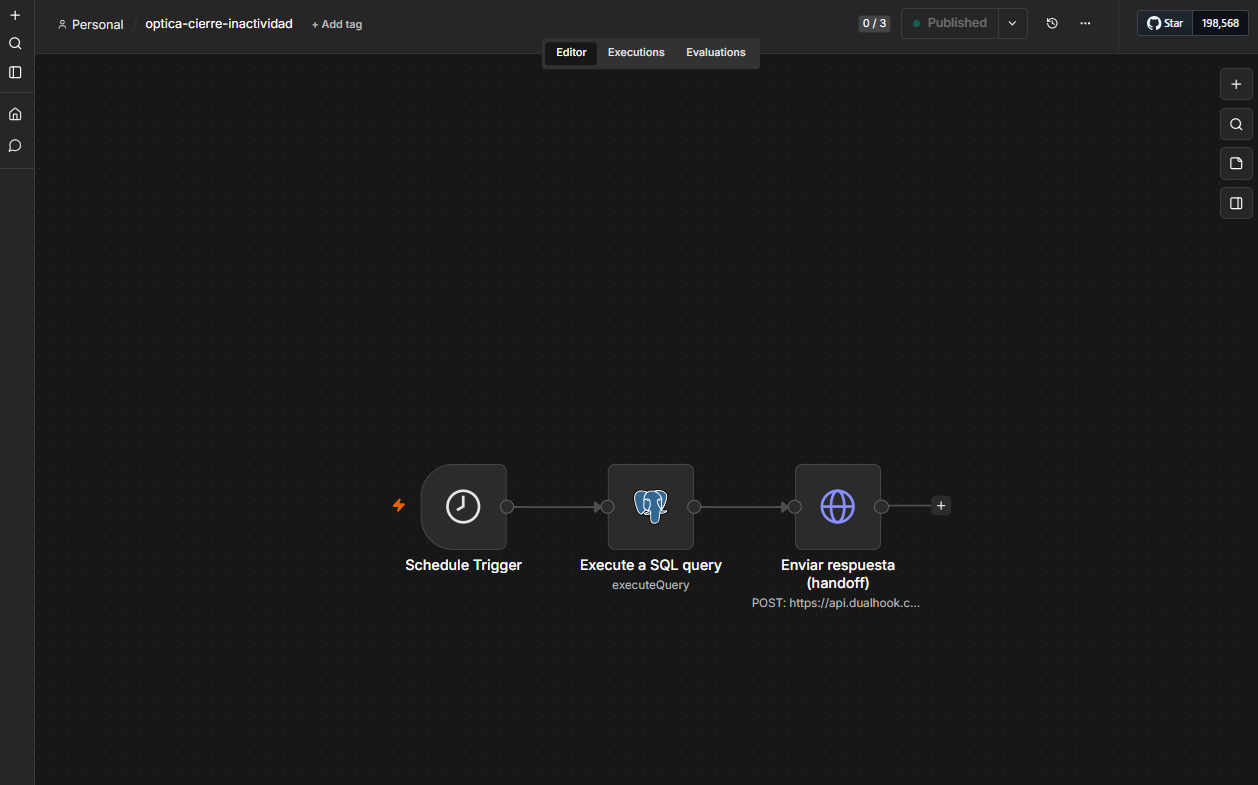
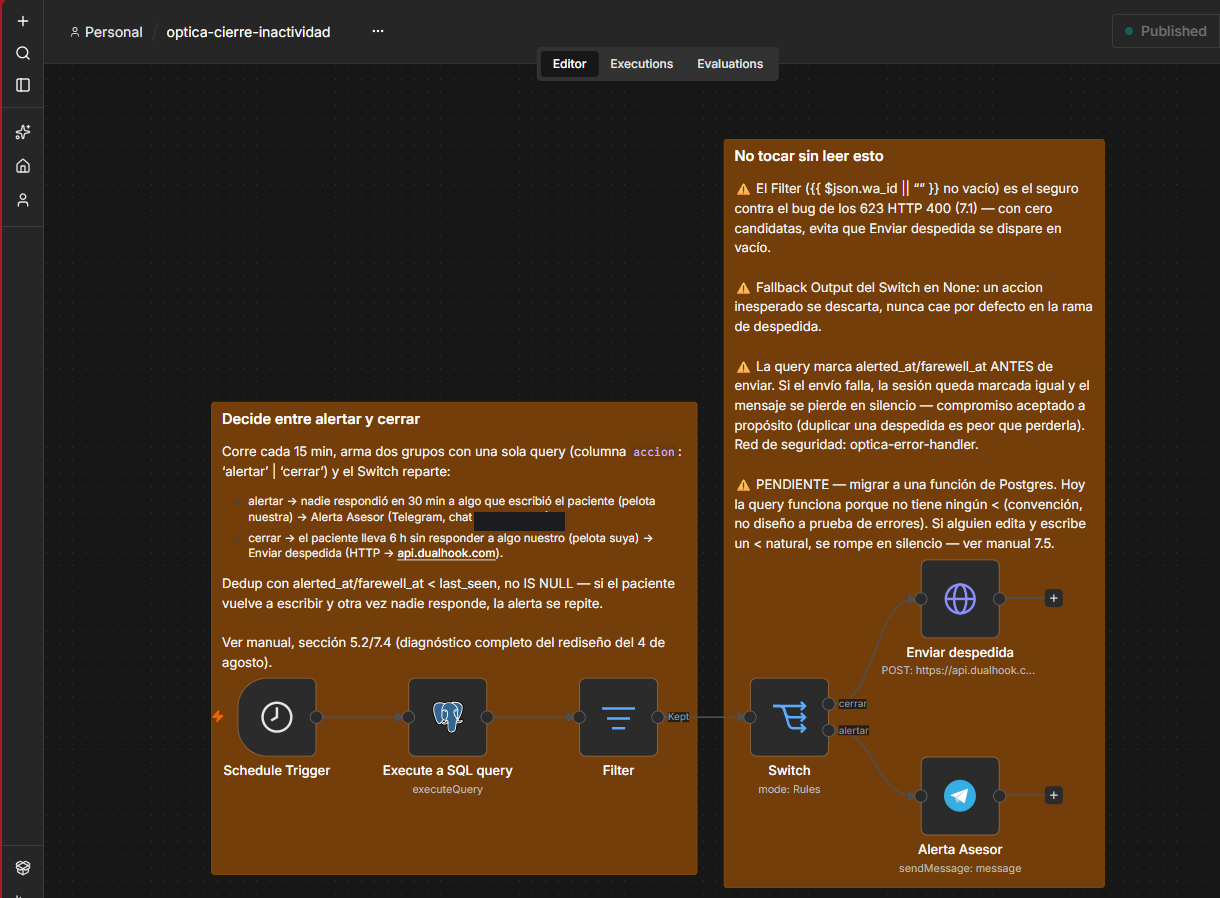
README: 4 workflows, dominio propio y Fase 5 de la bitácora
- Arquitectura: sslip.io → dominio propio con TLS automático (cutover sin
  downtime); el diagrama refleja los 3 usos reales de Telegram.
- Workflows: 3 → 4, con optica-error-handler documentado.
- optica-cierre-inactividad: descrito el rediseño de dos caminos
  (alertar a los 30 min / cerrar a las 6 h) en vez del umbral único de 1 h.
- Modelo de datos: columnas nuevas de optica_sessions (last_outbound_at,
  alerted_at, wa_user_id).
- Festivos: la afirmación sobre la Ley Emiliani ahora dice qué se verificó
  y cómo (Asunción 2026 → lunes 17, no sábado 15).
- Nueva Fase 5 de la bitácora: BSUID y el UPDATE que afectaba 0 filas,
  la trampa del par <…> en los campos SQL de n8n, el = duplicado en
  expresiones, el Error Workflow y por qué no se dispara en pruebas
  manuales, y el desfase horario del AI Agent (abierto).
- Lecciones 8-10 y roadmap actualizado.
- Capturas: las 4 al día, recortadas para no exponer el hostname de n8n
  ni los IDs de workflow, con el chat de Telegram redactado.

diff --git a/README.md b/README.md
@@ -16,21 +16,22 @@ Bot de WhatsApp en **producción** para una óptica real en Colombia. Atiende pa
 Paciente (WhatsApp) ⇄ Meta Cloud API
                           │  webhooks (directo, Webhook Override)
                           ▼
-      Caddy (HTTPS, sslip.io) ─→ n8n (workflow "optica-faq-bot")
+      Caddy (HTTPS, dominio propio) ─→ n8n (4 workflows)
                                       │
               ┌───────────────────────┼──────────────────────────┐
               ▼                       ▼                          ▼
       Postgres (pgvector)      Claude Haiku 4.5           Telegram Bot API
-      · memoria de chat        (Anthropic API)            (alertas al equipo)
-      · sesiones/estado        cerebro conversacional
-      · lista de personal
+      · memoria de chat        (Anthropic API)            · handoff a humano
+      · sesiones/estado        cerebro conversacional     · paciente sin atender
+      · lista de personal                                 · fallos de workflow
+      · festivos oficiales
                           envío de respuestas
                                       │
                                       ▼
                      Dualhook (BSP · api.dualhook.com) ─→ Meta ─→ Paciente
 ```
 
-- **Infraestructura:** AWS EC2 t3.micro · Docker Compose (Caddy + n8n + Postgres/pgvector) · Elastic IP · dominio sslip.io · acceso por SSM Session Manager (sin SSH).
+- **Infraestructura:** AWS EC2 t3.micro · Docker Compose (Caddy + n8n + Postgres/pgvector) · Elastic IP · **dominio propio** con TLS automático (migrado desde sslip.io sin downtime, ver bitácora) · acceso por SSM Session Manager (sin SSH).
 - **Coexistencia:** [Dualhook](https://dualhook.com) (Meta Tech Partner) habilita el Embedded Signup y el **Webhook Override**: los mensajes entrantes van **directo de Meta a n8n** (Dualhook no almacena mensajes); el envío sale por la API de Dualhook con una key propia.
 - **Recepción gratuita:** el bot solo responde dentro de la ventana de servicio de 24 h de Meta (conversaciones iniciadas por el paciente) → costo de mensajería ≈ $0 a este volumen.
 
@@ -47,8 +48,9 @@ Paciente (WhatsApp) ⇄ Meta Cloud API
 | **Handoff a humano** | Escala por: multimedia (fórmulas, comprobantes), petición explícita de asesor, o consultas de estado que solo el equipo conoce (marcador `##HANDOFF##` emitido por el LLM y detectado en n8n). Alerta por **Telegram** y pausa el bot 24 h **por paciente**. |
 | **Anti-cruce (echo-pausa)** | Si un humano responde desde la app, el webhook echo pausa al bot 2 h para ese paciente. Bot y asesor nunca se pisan. |
 | **Gate de horario** | El bot solo conversa **fuera del horario de atención**; en horario, el equipo atiende desde la app (alertas de Telegram activas siempre). |
-| **Festivos automáticos** | Los 18 festivos colombianos se sincronizan solos desde la API pública **Nager.Date** (incluye traslados por Ley Emiliani). Un festivo cuenta como día cerrado: el bot **sí atiende** (el equipo no está) y **nunca agenda** citas en esa fecha. Cero mantenimiento manual. |
-| **Cierre por inactividad** | Workflow programado: a la hora sin respuesta envía despedida elegante y cierra la sesión (respetando la ventana de 24 h de Meta). |
+| **Festivos automáticos** | Los 18 festivos colombianos se sincronizan solos desde la API pública **Nager.Date**, con los traslados de la Ley Emiliani ya aplicados (verificado en producción: la Asunción de 2026 llegó como lunes 17 de agosto, no como sábado 15). Un festivo cuenta como día cerrado: el bot **sí atiende** (el equipo no está) y **nunca agenda** citas en esa fecha. Cero mantenimiento manual. |
+| **De quién es el turno** | Cada 15 min, un workflow mira `last_seen` vs. `last_outbound_at` y decide: si la pelota es **nuestra** y lleva 30 min parada, alerta al equipo por Telegram; si la pelota es **del paciente** y lleva 6 h, envía la despedida y cierra la sesión. Una sola consulta decide ambos caminos. |
+| **Alertas de fallo** | Un *Error Workflow* central recoge cualquier excepción de los tres workflows productivos y la manda por Telegram con el nodo que falló, el mensaje y el enlace directo a la ejecución. Antes, un cron roto se descubría por casualidad. |
 | **Personal interno** | Números del equipo en tabla `optica_staff` (Postgres, **fuera del repo** por privacidad) → el bot los ignora por completo. |
 | **Formato WhatsApp** | Regla de estilo + saneo programático `**`→`*` para que la negrita renderice bien en WhatsApp. |
 
@@ -56,7 +58,8 @@ Paciente (WhatsApp) ⇄ Meta Cloud API
 
 ```sql
 optica_chat_history   -- memoria conversacional (Postgres Chat Memory de n8n), indexada por session key rotativa "wa_id:N"
-optica_sessions       -- estado por paciente: first_seen, last_seen, visit_count, current_session, mode (bot|human), handoff_until, farewell_at
+optica_sessions       -- estado por paciente: first_seen, last_seen, last_outbound_at, visit_count, current_session,
+                      --   mode (bot|human), handoff_until, alerted_at, farewell_at, wa_user_id (BSUID de Meta)
 optica_staff          -- números internos que el bot ignora (privacidad: viven en BD, no en el workflow ni el repo)
 optica_festivos       -- festivos oficiales de Colombia (fecha PK, nombre); poblada automáticamente desde Nager.Date
 ```
@@ -66,8 +69,11 @@ optica_festivos       -- festivos oficiales de Colombia (fecha PK, nombre); pobl
 ## Workflows n8n
 
 1. **`optica-faq-bot`** (principal): Webhook (GET verificación + POST mensajes) → filtro (mensaje real + no-echo + no-staff) → `SessionCheck` (upsert de sesión + detección new/returning/continuing + `human_active`) → gate modo-humano → gate texto/no-texto → gate de horario → **AI Agent** (Claude Haiku 4.5 + Postgres Chat Memory) → detección `##HANDOFF##` → envío vía Dualhook. Ramas paralelas: escalamiento multimedia y echo-pausa.
-2. **`optica-cierre-inactividad`**: Schedule cada 15 min → despedida a sesiones de bot inactivas ≥ 1 h (una sola vez, dentro de la ventana de 24 h).
+2. **`optica-cierre-inactividad`**: Schedule cada 15 min → una consulta que clasifica cada sesión en `alertar` o `cerrar` → `Switch` → Telegram (paciente sin atender hace 30 min) o despedida vía Dualhook (paciente sin responder hace 6 h). Los dos umbrales miden cosas distintas a propósito; ver la Fase 5 de la bitácora.
 3. **`optica-sync-festivos`**: Schedule mensual → Code (año actual + siguiente) → HTTP Request a `date.nager.at` → upsert idempotente en `optica_festivos`. Mensual y no anual a propósito: si una corrida falla, se recupera sola al mes siguiente.
+4. **`optica-error-handler`**: `Error Trigger` → Telegram. No tiene disparador propio: n8n lo invoca cuando cualquiera de los tres workflows anteriores lanza una excepción (Settings → Error Workflow). Es la única razón por la que un fallo nocturno se entera alguien.
+
+Los cuatro llevan **sticky notes en el propio lienzo** con la lógica de cada rama y las trampas conocidas: el manual de operación no siempre está a mano cuando algo se rompe a las 2 a. m.
 
 ### Capturas del canvas
 
@@ -76,6 +82,7 @@ optica_festivos       -- festivos oficiales de Colombia (fecha PK, nombre); pobl
 | `optica-faq-bot` | ![Canvas del workflow principal](docs/optica-faq-bot.png) |
 | `optica-cierre-inactividad` | ![Canvas del cierre por inactividad](docs/optica-cierre-inactividad.png) |
 | `optica-sync-festivos` | ![Canvas de la sincronización de festivos](docs/optica-sync-festivos.png) |
+| `optica-error-handler` | ![Canvas del manejador de errores](docs/optica-error-handler.png) |
 
 ## Qué hay (y qué no) en este repositorio
 
@@ -143,12 +150,29 @@ Documentar lo que salió mal vale más que lo que salió bien. Todo esto pasó d
 | Bot y asesor se cruzaban en una misma conversación | Ambos activos a la vez | **Gate de horario** (bot solo con la óptica cerrada) + **echo-pausa** de 2 h por paciente |
 | Negrita con asteriscos visibles (`*texto*`) | El LLM emitía Markdown `**` que WhatsApp no renderiza | Regla de formato WhatsApp en el prompt + saneo `replace(/\*\*/g,'*')` en el envío |
 | El bot le respondía al propio personal de la óptica | Sus números personales no se distinguían de los de un paciente | Tabla **`optica_staff`** en Postgres (números fuera del repo) + gate al inicio del flujo |
-| Conversaciones quedaban "abiertas" para siempre | Sin política de cierre | Workflow de **despedida a la hora de inactividad** (una vez, `farewell_at`) |
+| Conversaciones quedaban "abiertas" para siempre | Sin política de cierre | Workflow de **despedida a la hora de inactividad** (una vez, `farewell_at`). *Rediseñado en la Fase 5: una hora sin distinguir de quién era el turno resultó ser el problema siguiente* |
 | Riesgo de exponer números personales en el repo | Condiciones hardcodeadas en el workflow | Mover la lista a la BD; checklist de saneo del JSON antes de publicar |
 | **Festivos: el peor escenario silencioso** | El gate de horario solo miraba día y hora → un festivo se trataba como día laboral: el bot callaba **y** el equipo no estaba → paciente sin respuesta de nadie | Tabla `optica_festivos` + `es_festivo` en `SessionCheck` + `&& !es_festivo` en ambos gates |
 | Owly no avisaba del festivo aunque el gate ya funcionaba | Se le pasaba una *lista* de fechas y se esperaba que él dedujera si hoy estaba incluida (aritmética de fechas = frágil). Además, el festivo de prueba se llamaba "PRUEBA — borrar" y el modelo lo descartó como artefacto | Inyectar un **indicador explícito** `¿HOY ES FESTIVO?: SÍ/No` desde el booleano de la BD + instrucción de confiar en él aunque el nombre parezca de prueba |
 | Mantenimiento anual de festivos (fácil de olvidar) | Lista manual año a año | Workflow de sync con **Nager.Date** (API pública, sin auth) → se auto-alimenta para siempre |
 | Sospecha de bug al ver el flujo morir en "Bot en silencio" | Los gates están en serie: el primero que aplica corta el flujo (una pausa por-paciente gana antes de evaluar el horario) | No es bug: es defensa en profundidad. El `human_active` visible en el output de `SessionCheck` explica cada camino |
+
+### Fase 5 — Auditoría y observabilidad (agosto 2026)
+
+La fase en la que dejamos de arreglar lo que fallaba y empezamos a buscar lo que fallaba **en silencio**.
+
+| Problema | Causa raíz | Solución |
+|---|---|---|
+| **El anti-cruce nunca funcionó en producción.** Cada vez que un asesor respondía desde la app, Owly seguía contestando en paralelo | Meta está migrando a **Business-Scoped User IDs**: el payload del echo trae `to_user_id` y el teléfono (`to`) puede no venir. El `UPDATE` emparejaba solo por teléfono → afectaba **0 filas, sin lanzar error** | Columna `wa_user_id` + emparejar por BSUID con el teléfono como respaldo: `WHERE wa_user_id = $1 OR ($2 != '' AND wa_id = $2)`. Confirmado después con 6 ejecuciones reales (1 fila afectada en todas) |
+| Tres nodos más tenían la misma exposición y nadie lo sabía | El patrón se había corregido **dos veces de forma reactiva**: solo el nodo que reventó cada vez | Exportar todos los workflows (`n8n export:workflow --all`) y revisar con `jq` **todos** los nodos Postgres, no solo los sospechosos. Aparecieron 3 más sin tocar |
+| 🔴 **Una query se ejecutaba distinta de como se veía en el editor** | Algo entre el editor de n8n y la ejecución aplica un limpiador de etiquetas HTML (un `<[^>]*>` de manual) y **borra todo lo que haya entre un `<` y el siguiente `>`**. El editor sigue mostrando el texto íntegro | Reescribir las queries **sin ningún `<`** (`a < b` ≡ `b > a`). En SQL eso obliga además a usar `!=` en vez del `<>` natural, que empieza por `<` y se lo comería entero |
+| "Voltear todos los `<`" casi borra medio `SessionCheck` | El limpiador necesita un **par**: un `<` de apertura y un `>` de cierre. Una query con `<` y sin ningún `>` posterior es inofensiva — y añadir un `>=` "por seguridad" le da justo el cierre que le faltaba | La regla no es *voltea los `<`*, es **que no exista un par `<…>`**. Contar `<` y `>` en orden de aparición antes de tocar un nodo. *Una mitigación aplicada sin entender el mecanismo puede activar justo lo que pretendía evitar* |
+| Una expresión editada quedó corrupta sin lanzar ningún error | Pegar `={{ ... }}` en un campo que la UI ya tiene en modo *Expression* deja ese `=` como carácter literal, y n8n añade el suyo al guardar → el JSON exportado dice `"=={{ ... }}"` | Re-exportar y comparar el JSON contra un nodo de referencia después de cada edición. *"Se ve bien en el editor" no es una verificación* |
+| El cierre por inactividad despedía a pacientes que estaban esperando respuesta | El umbral de 1 h medía "no pasó nada", sin distinguir **de quién era el turno** | Rediseño de dos caminos sobre una sola consulta: `alertar` a los 30 min si la pelota es nuestra, `cerrar` a las 6 h si es del paciente |
+| Una caída de 25 min se detectó porque alguien estaba mirando la pantalla en ese momento | n8n no avisa por defecto cuando un workflow falla | **Error Workflow** central → Telegram con el workflow, el nodo que falló, el mensaje, la hora en Bogotá y el enlace directo a la ejecución |
+| El Error Workflow "no servía": se probaba y no llegaba nada | Las ejecuciones manuales (`Execute step`, `Test workflow`) **no lo disparan**. Solo una ejecución real vía el disparador propio del workflow, estando *Published* | Probarlo con un workflow desechable de un nodo (`Code` con `throw new Error(...)`) disparado desde su **URL de producción**, no desde el editor |
+| Migrar de máquina con el hostname en `sslip.io` era una ruleta | Let's Encrypt no puede validar el hostname nuevo hasta que la IP ya apunte ahí, y el límite de 5 certificados por hostname cada 168 h puede dejar el bot caído una semana | Mover a **dominio propio antes de necesitarlo**: registro A (en *DNS only*, el proxy rompe el reto HTTP-01) + bloque adicional en el `Caddyfile` → los dos dominios sirven a la vez y el cutover ocurre cuando el tráfico real ya lo confirmó |
+| Owly respondió una hora con ~2 h de desfase | Sin diagnosticar. La fecha y el festivo del mismo mensaje salieron correctos, así que parece acotado a la hora | **Abierto.** El nodo `AI Agent` es el único que no ha pasado por la auditoría que sí se hizo a los nodos Postgres |
 
 ---
 
@@ -161,11 +185,20 @@ Documentar lo que salió mal vale más que lo que salió bien. Todo esto pasó d
 5. **Los humanos son parte de la arquitectura.** Gate de horario, echo-pausa, staff-list y handoff convierten un chatbot en un **sistema híbrido humano+IA** operable en un negocio real.
 6. **Decide en el código, no en el prompt.** Cuando el sistema ya sabe algo con certeza (¿hoy es festivo? ¿está en horario?), pásale al LLM un **booleano explícito**, no datos para que los deduzca. Cada cálculo que se le delega al modelo es un bug latente.
 7. **Los calendarios locales son requisitos, no detalles.** Festivos, cierres de mediodía y zonas horarias son reglas de negocio de primera clase: si el bot no las conoce, falla justo los días en que más se nota.
+8. **Lo que no avisa, no existe.** Un sistema sin alertas de fallo no es estable: es un sistema donde nadie se entera. La automatización que más valor dio en agosto no la ve ningún paciente — son dos nodos que mandan un mensaje de Telegram cuando algo revienta.
+9. **Un fix reactivo no es una auditoría.** Corregir el nodo que falló deja intactos los que van a fallar igual. Cuando aparece un patrón de bug, toca buscarlo en todo el sistema, no solo donde dolió.
+10. **Un `UPDATE` que afecta cero filas no es un error.** Los fallos ruidosos se arreglan solos porque alguien los ve. Los caros son los que devuelven éxito: durante semanas el anti-cruce "funcionaba" y no hacía nada.
 
 ## Roadmap
 
 - [x] Método de pago configurado en la WABA (habilita plantillas cuando se necesiten).
 - [x] README bilingüe (ES/EN) para alcance internacional del portafolio.
+- [x] **Dominio propio con TLS automático**, migrado desde `sslip.io` sin downtime.
+- [x] **Error Workflow** con alertas por Telegram sobre los tres workflows productivos.
+- [x] Sticky notes de documentación en el lienzo de los cuatro workflows.
+- [ ] Migrar la lógica de `optica-cierre-inactividad` a una **función de Postgres**: hoy la query sobrevive gracias a la convención "cero `<`", y una convención frágil es deuda, no diseño.
+- [ ] Unificar las dos ventanas de handoff (2 h por echo del asesor vs. 24 h por `##HANDOFF##` del modelo).
+- [ ] Auditar el nodo `AI Agent` (desfase horario detectado, ver Fase 5).
 - [ ] Recuperar el permiso `whatsapp_business_management` en el token (requiere re-correr el Embedded Signup; **aplazado a propósito**: no aporta al alcance actual y el número está en producción).
 - [ ] Evaluar **Meta Business Agent** cuando llegue a Colombia (posible reemplazo del BSP).
 - [ ] HTTPS para el dominio principal de la óptica (Cloudflare).

diff --git a/README.en.md b/README.en.md
@@ -16,21 +16,22 @@ A **production** WhatsApp bot for a real optical shop in Colombia. It serves pat
 Patient (WhatsApp) ⇄ Meta Cloud API
                           │  webhooks (direct, Webhook Override)
                           ▼
-      Caddy (HTTPS, sslip.io) ─→ n8n (workflow "optica-faq-bot")
+      Caddy (HTTPS, own domain) ─→ n8n (4 workflows)
                                       │
               ┌───────────────────────┼──────────────────────────┐
               ▼                       ▼                          ▼
       Postgres (pgvector)      Claude Haiku 4.5           Telegram Bot API
-      · chat memory            (Anthropic API)            (team alerts)
-      · session state          conversational brain
-      · staff list
+      · chat memory            (Anthropic API)            · human handoff
+      · session state          conversational brain       · unanswered patient
+      · staff list                                        · workflow failures
+      · public holidays
                           outbound replies
                                       │
                                       ▼
                      Dualhook (BSP · api.dualhook.com) ─→ Meta ─→ Patient
 ```
 
-- **Infrastructure:** AWS EC2 t3.micro · Docker Compose (Caddy + n8n + Postgres/pgvector) · Elastic IP · sslip.io domain · SSM Session Manager access (no SSH).
+- **Infrastructure:** AWS EC2 t3.micro · Docker Compose (Caddy + n8n + Postgres/pgvector) · Elastic IP · **own domain** with automatic TLS (migrated off sslip.io with no downtime — see the war log) · SSM Session Manager access (no SSH).
 - **Coexistence:** [Dualhook](https://dualhook.com) (Meta Tech Partner) enables Embedded Signup and **Webhook Override**: inbound messages go **straight from Meta to n8n** (Dualhook never stores message content); outbound goes through Dualhook's API with a connection-scoped key.
 - **Free inbound:** the bot only replies inside Meta's 24-hour customer service window (patient-initiated conversations) → messaging cost ≈ $0 at this volume.
 
@@ -47,8 +48,9 @@ Patient (WhatsApp) ⇄ Meta Cloud API
 | **Human handoff** | Escalates on: media (prescriptions, payment receipts), an explicit request for a human, or status questions only the team can answer (a `##HANDOFF##` marker emitted by the LLM and detected in n8n). Alerts via **Telegram** and pauses the bot for 24 h **for that patient only**. |
 | **Anti-collision (echo pause)** | If a human replies from the app, the echo webhook pauses the bot for 2 h for that patient. Bot and agent never talk over each other. |
 | **Business-hours gate** | The bot only converses **outside business hours**; during business hours the team answers from the app (Telegram alerts stay on at all times). |
-| **Automatic public holidays** | Colombia's 18 public holidays sync themselves from the public **Nager.Date** API (including the Ley Emiliani shifts). A holiday counts as a closed day: the bot **does answer** (the team isn't there) and **never books** appointments on that date. Zero manual upkeep. |
-| **Inactivity close-out** | Scheduled workflow: after an hour with no reply it sends a graceful goodbye and closes the session (respecting Meta's 24-hour window). |
+| **Automatic public holidays** | Colombia's 18 public holidays sync themselves from the public **Nager.Date** API, with the Ley Emiliani shifts already applied (verified in production: Assumption 2026 arrived as Monday 17 August, not Saturday the 15th). A holiday counts as a closed day: the bot **does answer** (the team isn't there) and **never books** appointments on that date. Zero manual upkeep. |
+| **Whose turn is it** | Every 15 minutes a workflow compares `last_seen` against `last_outbound_at` and decides: if the ball is **ours** and has been sitting for 30 minutes, it alerts the team on Telegram; if the ball is **the patient's** and has been sitting for 6 hours, it sends the goodbye and closes the session. One query decides both paths. |
+| **Failure alerts** | A central *Error Workflow* catches any exception from the three production workflows and pushes it to Telegram with the failing node, the message and a direct link to the execution. Before that, a broken cron was discovered by luck. |
 | **Internal staff** | Team phone numbers live in an `optica_staff` table (Postgres, **kept out of the repo** for privacy) → the bot ignores them entirely. |
 | **WhatsApp formatting** | Style rule plus a programmatic `**`→`*` sanitizer so bold renders correctly in WhatsApp. |
 
@@ -56,7 +58,8 @@ Patient (WhatsApp) ⇄ Meta Cloud API
 
 ```sql
 optica_chat_history   -- conversational memory (n8n Postgres Chat Memory), keyed by the rotating session key "wa_id:N"
-optica_sessions       -- per-patient state: first_seen, last_seen, visit_count, current_session, mode (bot|human), handoff_until, farewell_at
+optica_sessions       -- per-patient state: first_seen, last_seen, last_outbound_at, visit_count, current_session,
+                      --   mode (bot|human), handoff_until, alerted_at, farewell_at, wa_user_id (Meta BSUID)
 optica_staff          -- internal numbers the bot ignores (privacy: they live in the DB, not in the workflow or the repo)
 optica_festivos       -- Colombian public holidays (date PK, name); auto-populated from Nager.Date
 ```
@@ -66,8 +69,11 @@ optica_festivos       -- Colombian public holidays (date PK, name); auto-populat
 ## n8n workflows
 
 1. **`optica-faq-bot`** (main): Webhook (GET verification + POST messages) → filter (real message + not an echo + not staff) → `SessionCheck` → human-mode gate → text/non-text gate → business-hours gate → **AI Agent** (Claude Haiku 4.5 + Postgres Chat Memory) → `##HANDOFF##` detection → send via Dualhook. Parallel branches: media escalation and echo pause.
-2. **`optica-cierre-inactividad`**: Schedule every 15 min → goodbye message to bot sessions idle ≥ 1 h (once only, inside the 24-hour window).
+2. **`optica-cierre-inactividad`**: Schedule every 15 min → one query that classifies every session as `alertar` or `cerrar` → `Switch` → Telegram (patient unanswered for 30 min) or goodbye via Dualhook (patient silent for 6 h). The two thresholds measure deliberately different things; see Phase 5 of the war log.
 3. **`optica-sync-festivos`**: Monthly schedule → Code (current year + next) → HTTP Request to `date.nager.at` → idempotent upsert into `optica_festivos`. Monthly rather than yearly on purpose: if one run fails, it self-heals the following month.
+4. **`optica-error-handler`**: `Error Trigger` → Telegram. It has no trigger of its own: n8n invokes it whenever any of the three workflows above throws (Settings → Error Workflow). It is the only reason anyone finds out about an overnight failure.
+
+All four carry **sticky notes on the canvas itself** documenting each branch and the known traps: the ops manual isn't always within reach when something breaks at 2 a.m.
 
 ### Canvas screenshots
 
@@ -76,6 +82,7 @@ optica_festivos       -- Colombian public holidays (date PK, name); auto-populat
 | `optica-faq-bot` | ![Main workflow canvas](docs/optica-faq-bot.png) |
 | `optica-cierre-inactividad` | ![Inactivity close-out canvas](docs/optica-cierre-inactividad.png) |
 | `optica-sync-festivos` | ![Holiday sync canvas](docs/optica-sync-festivos.png) |
+| `optica-error-handler` | ![Error handler canvas](docs/optica-error-handler.png) |
 
 ## What's (and isn't) in this repository
 
@@ -143,12 +150,29 @@ Documenting what went wrong is worth more than documenting what went right. All 
 | Bot and human agent colliding in the same conversation | Both active at once | **Business-hours gate** (bot only while the shop is closed) + a 2 h **echo pause** per patient |
 | Bold text showing literal asterisks (`*text*`) | The LLM emitted Markdown `**`, which WhatsApp doesn't render | WhatsApp formatting rule in the prompt + `replace(/\*\*/g,'*')` sanitizer on send |
 | The bot replied to the shop's own staff | Their personal numbers looked like any patient's | **`optica_staff`** table in Postgres (numbers out of the repo) + a gate at the very start of the flow |
-| Conversations stayed "open" forever | No close-out policy | **Goodbye-after-one-hour-of-inactivity** workflow (once only, tracked via `farewell_at`) |
+| Conversations stayed "open" forever | No close-out policy | **Goodbye-after-one-hour-of-inactivity** workflow (once only, tracked via `farewell_at`). *Redesigned in Phase 5: one hour without asking whose turn it was turned out to be the next problem* |
 | Risk of leaking personal phone numbers in the repo | Numbers hardcoded in workflow conditions | Move the list to the DB; add a secret-scanning checklist before publishing the JSON |
 | **Public holidays: the worst kind of silent failure** | The hours gate only looked at weekday and time → a holiday was treated as a working day: the bot stayed silent **and** the team wasn't there → the patient got no answer at all | `optica_festivos` table + `es_festivo` in `SessionCheck` + `&& !es_festivo` in both gates |
 | Owly didn't announce the holiday even after the gate worked | It was handed a *list* of dates and expected to work out whether today was in it (date arithmetic = fragile). On top of that, the test holiday was literally named "TEST — delete" and the model dismissed it as an artifact | Inject an **explicit flag** `IS TODAY A HOLIDAY?: YES/No` from the DB boolean + instruct the model to trust it even if the name looks like a test |
 | Yearly holiday maintenance (easy to forget) | Manually curated list, year after year | Sync workflow using **Nager.Date** (public API, no auth) → self-feeding forever |
 | Suspected bug when the flow died at "Bot silent" | Gates run in series: the first one that applies short-circuits the flow (a per-patient pause wins before the hours gate is even evaluated) | Not a bug — defense in depth. The `human_active` value in `SessionCheck`'s output explains every path |
+
+### Phase 5 — Audit and observability (August 2026)
+
+The phase where we stopped fixing what broke and started hunting for what was breaking **silently**.
+
+| Problem | Root cause | Fix |
+|---|---|---|
+| **The anti-collision guard had never worked in production.** Every time an agent replied from the app, Owly kept answering in parallel | Meta is migrating to **Business-Scoped User IDs**: the echo payload carries `to_user_id` and the phone number (`to`) may simply not be there. The `UPDATE` matched on phone only → it affected **0 rows and raised no error** | A `wa_user_id` column + matching on the BSUID with the phone as fallback: `WHERE wa_user_id = $1 OR ($2 != '' AND wa_id = $2)`. Later confirmed against 6 real executions (1 row affected in every one) |
+| Three more nodes carried the same exposure and nobody knew | The pattern had been fixed **twice reactively**: only the node that blew up each time | Export every workflow (`n8n export:workflow --all`) and review **all** Postgres nodes with `jq`, not just the suspects. Three untouched ones turned up |
+| 🔴 **A query was executing differently from what the editor showed** | Something between n8n's editor and execution runs an HTML tag stripper (a hand-rolled `<[^>]*>`) and **deletes everything between a `<` and the next `>`**. The editor keeps showing the full text | Rewrite the queries with **no `<` at all** (`a < b` ≡ `b > a`). In SQL that also forces `!=` instead of the natural `<>`, which starts with `<` and would be swallowed whole |
+| "Flip every `<`" nearly deleted half of `SessionCheck` | The stripper needs a **pair**: an opening `<` and a closing `>`. A query with a `<` and no later `>` is harmless — and adding a `>=` "to be safe" hands it exactly the closing bracket it was missing | The rule isn't *flip the `<`*, it's **make sure no `<…>` pair exists**. Count `<` and `>` in order of appearance before touching a node. *A mitigation applied without understanding the mechanism can trigger the very thing it was meant to prevent* |
+| An edited expression was silently corrupted, with no error | Pasting `={{ ... }}` into a field the UI already has in *Expression* mode leaves that `=` as a literal character, and n8n adds its own on save → the exported JSON reads `"=={{ ... }}"` | Re-export and diff the JSON against a known-good node after every edit. *"It looks right in the editor" is not verification* |
+| The inactivity close-out was saying goodbye to patients who were waiting for an answer | The 1-hour threshold measured "nothing happened", without distinguishing **whose turn it was** | A two-path redesign over a single query: `alertar` at 30 min if the ball is ours, `cerrar` at 6 h if it's the patient's |
+| A 25-minute outage was caught only because someone happened to be looking at the screen | n8n doesn't notify anyone when a workflow fails | A central **Error Workflow** → Telegram with the workflow, the failing node, the message, the time in Bogotá and a direct link to the execution |
+| The Error Workflow "didn't work": testing it produced nothing | Manual executions (`Execute step`, `Test workflow`) **do not trigger it**. Only a real execution through the workflow's own trigger, while *Published* | Test it with a throwaway one-node workflow (`Code` with `throw new Error(...)`) fired from its **production URL**, not from the editor |
+| Moving the machine while the hostname lived on `sslip.io` was a gamble | Let's Encrypt can't validate the new hostname until the IP already points there, and the limit of 5 certificates per hostname per 168 h can leave the bot down for a week | Move to an **own domain before you need it**: an A record (in *DNS only* — the proxy breaks the HTTP-01 challenge) + an extra block in the `Caddyfile` → both domains serve at once and the cutover happens once real traffic has confirmed it |
+| Owly reported a time roughly 2 hours off | Undiagnosed. The date and the holiday in the same message were correct, so it looks confined to the clock | **Open.** The `AI Agent` node is the only one that hasn't been through the audit the Postgres nodes got |
 
 ---
 
@@ -161,11 +185,20 @@ Documenting what went wrong is worth more than documenting what went right. All 
 5. **Humans are part of the architecture.** The hours gate, echo pause, staff list and handoff turn a chatbot into a **hybrid human+AI system** that a real business can actually operate.
 6. **Decide in code, not in the prompt.** When the system already knows something for certain (is today a holiday? are we open?), hand the LLM an **explicit boolean**, not raw data to reason over. Every calculation delegated to the model is a latent bug.
 7. **Local calendars are requirements, not details.** Public holidays, midday closures and time zones are first-class business rules: if the bot doesn't know them, it fails on exactly the days when it's most visible.
+8. **What doesn't page you doesn't exist.** A system with no failure alerts isn't stable — it's a system where nobody finds out. The highest-value automation built in August is invisible to every patient: two nodes that send a Telegram message when something breaks.
+9. **A reactive fix is not an audit.** Fixing the node that failed leaves untouched every node that will fail the same way. When a bug pattern shows up, go looking for it across the whole system, not just where it hurt.
+10. **An `UPDATE` that affects zero rows is not an error.** Loud failures fix themselves because someone sees them. The expensive ones return success: for weeks the anti-collision guard "worked" and did nothing at all.
 
 ## Roadmap
 
 - [x] Payment method configured on the WABA (unlocks templates whenever they're needed).
 - [x] Bilingual README (ES/EN) for international portfolio reach.
+- [x] **Own domain with automatic TLS**, migrated off `sslip.io` with no downtime.
+- [x] **Error Workflow** with Telegram alerts covering all three production workflows.
+- [x] Documentation sticky notes on the canvas of all four workflows.
+- [ ] Move the `optica-cierre-inactividad` logic into a **Postgres function**: today the query survives on the "no `<`" convention, and a fragile convention is debt, not design.
+- [ ] Reconcile the two handoff windows (2 h from an agent echo vs. 24 h from the model's `##HANDOFF##`).
+- [ ] Audit the `AI Agent` node (clock drift found, see Phase 5).
 - [ ] Restore the `whatsapp_business_management` scope on the token (requires re-running Embedded Signup; **deliberately deferred**: it adds nothing to the current scope and the number is live in production).
 - [ ] Evaluate **Meta Business Agent** once it reaches Colombia (a possible BSP replacement).
 - [ ] HTTPS for the shop's main domain (Cloudflare).
